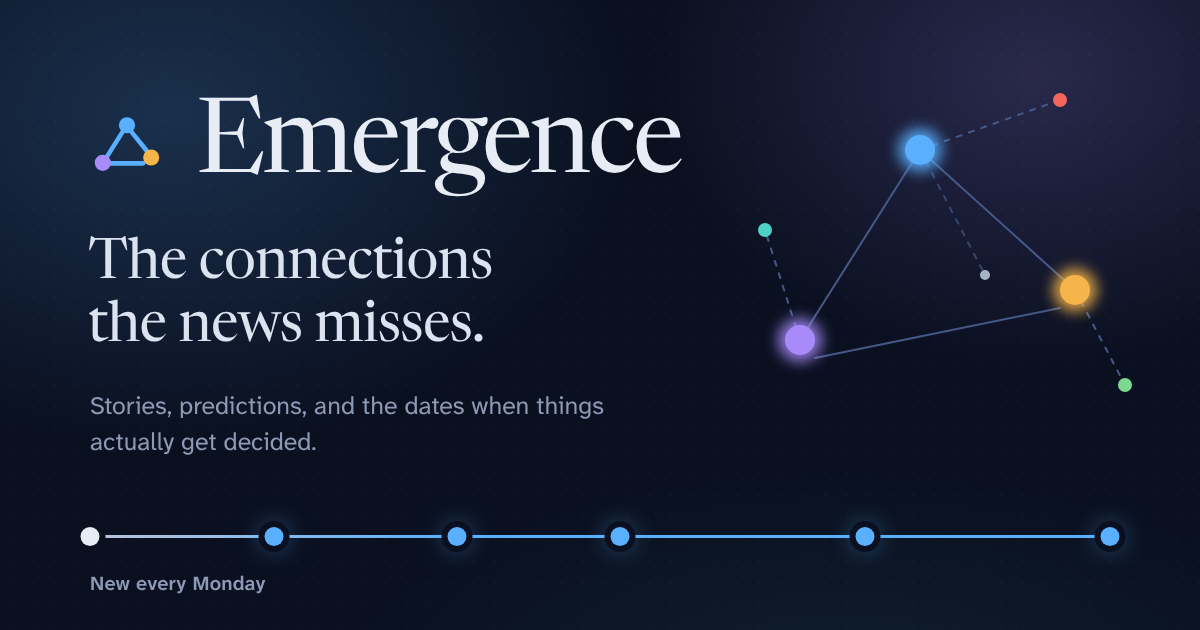
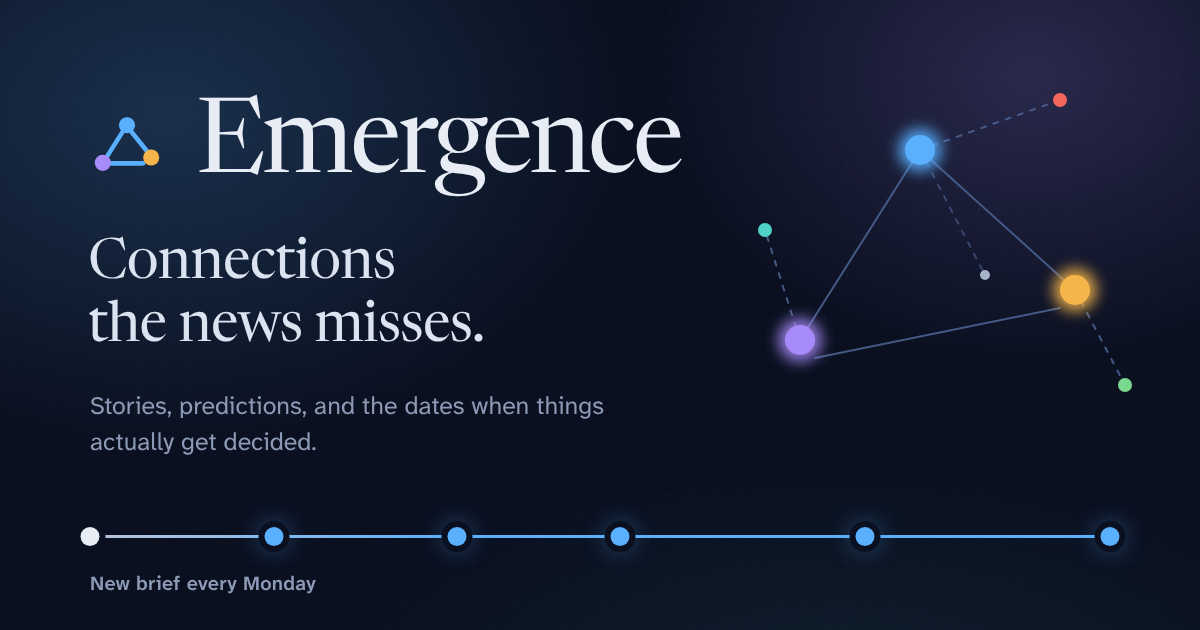
Tagline: 'Connections the news misses'; 'New brief every Monday'
Claude-Session: https://claude.ai/code/session_014pWVP9mFJ8uyKPDrUjT5nv

Changed region(s): [[0.0617, 0.3619, 0.4317, 0.4524], [0.1233, 0.9048, 0.2775, 0.9349]]

diff --git a/index.html b/index.html
@@ -4,19 +4,19 @@
   <meta charset="utf-8">
   <meta name="viewport" content="width=device-width, initial-scale=1">
   <title>Emergence</title>
-  <meta name="description" content="The connections the news misses. Stories, predictions, and the dates when things actually get decided.">
+  <meta name="description" content="Connections the news misses. Stories, predictions, and the dates when things actually get decided.">
   <meta name="theme-color" content="#0A1020">
   <meta property="og:type" content="website">
   <meta property="og:site_name" content="Emergence">
   <meta property="og:title" content="Emergence">
-  <meta property="og:description" content="The connections the news misses. Stories, predictions, and the dates when things actually get decided.">
+  <meta property="og:description" content="Connections the news misses. Stories, predictions, and the dates when things actually get decided.">
   <meta property="og:url" content="https://prototypeversions.github.io/Emergence/">
-  <meta property="og:image" content="https://prototypeversions.github.io/Emergence/assets/og-image.png">
+  <meta property="og:image" content="https://prototypeversions.github.io/Emergence/assets/og-image.png?v=2">
   <meta property="og:image:width" content="1200">
   <meta property="og:image:height" content="630">
-  <meta property="og:image:alt" content="Emergence: the connections the news misses.">
+  <meta property="og:image:alt" content="Emergence: connections the news misses.">
   <meta name="twitter:card" content="summary_large_image">
-  <meta name="twitter:image" content="https://prototypeversions.github.io/Emergence/assets/og-image.png">
+  <meta name="twitter:image" content="https://prototypeversions.github.io/Emergence/assets/og-image.png?v=2">
   <link rel="apple-touch-icon" href="assets/apple-touch-icon.png">
   <link rel="icon" href="assets/favicon.svg" type="image/svg+xml">
   <link rel="preconnect" href="https://fonts.googleapis.com">
@@ -33,7 +33,7 @@
         <svg class="brand-mark" viewBox="0 0 32 32" aria-hidden="true"><circle cx="7" cy="23" r="3"/><circle cx="16" cy="9" r="3"/><circle cx="25" cy="21" r="3"/><path d="M8.6 20.6 14.4 11.4M17.6 11.4l5.8 7.2M10 23.2h12"/></svg>
         <span>Emergence</span>
       </a>
-      <p class="rail-intro">The connections the news misses.</p>
+      <p class="rail-intro">Connections the news misses.</p>
       <nav class="nav">
         <a href="#/pulse" data-nav="pulse"><svg viewBox="0 0 20 20" aria-hidden="true"><path d="M2 10h4l2-5 4 10 2-5h4"/></svg><span>This week</span></a>
         <a href="#/stories" data-nav="stories"><svg viewBox="0 0 20 20" aria-hidden="true"><path d="M4 4h12M4 8h12M4 12h8M4 16h6"/></svg><span>Stories</span></a>
